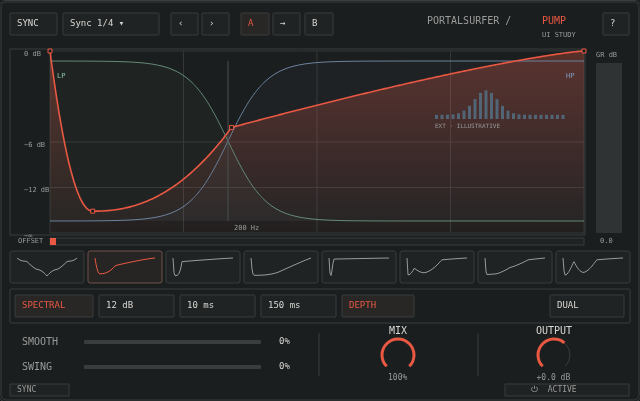
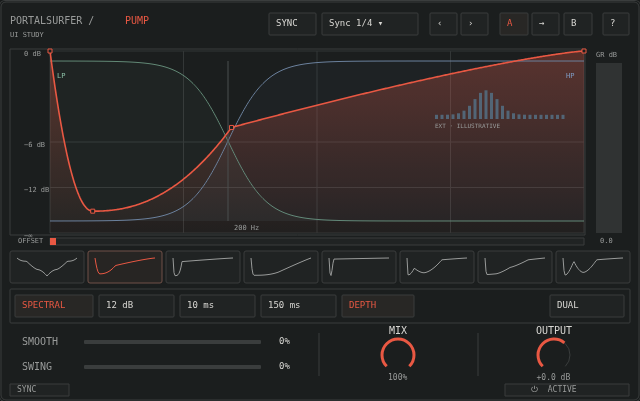
Move header branding left and toolbar controls right

diff --git a/frame-standalone.html b/frame-standalone.html
@@ -108,8 +108,8 @@ button:focus-visible, select:focus-visible { outline: 2px solid #e95843; outline
   }
   function shell(c,mode){
     c.fillStyle=C.bg;c.fillRect(0,0,640,400);rect(c,1,1,638,398,5,C.bg,C.line);
-    button(c,'SYNC',10,12,47);button(c,'Sync 1/4 ▾',63,12,96);button(c,'‹',171,12,27);button(c,'›',202,12,27);button(c,'A',241,12,28,true);button(c,'→',273,12,27);button(c,'B',305,12,28);
-    text(c,'PORTALSURFER /',427,20,10,C.muted);text(c,'PUMP',542,20,10,C.accent);text(c,'UI STUDY',542,34,7,C.muted);button(c,'?',603,12,26);
+    text(c,'PORTALSURFER /',10,20,10,C.muted);text(c,'PUMP',125,20,10,C.accent);text(c,'UI STUDY',10,34,7,C.muted);
+    button(c,'SYNC',269,12,47);button(c,'Sync 1/4 ▾',322,12,96);button(c,'‹',430,12,27);button(c,'›',461,12,27);button(c,'A',500,12,28,true);button(c,'→',532,12,27);button(c,'B',564,12,28);button(c,'?',603,12,26);
     const x=50,y=50,w=534,h=182;rect(c,10,48,575,186,0,C.bg,C.line);
     c.strokeStyle='#333737';c.lineWidth=1;for(let i=0;i<=4;i++){c.beginPath();c.moveTo(x+w*i/4,y);c.lineTo(x+w*i/4,y+h);c.stroke();}for(const level of [0,.5,.75,1]){c.beginPath();c.moveTo(x,y+h*level);c.lineTo(x+w,y+h*level);c.stroke();}
     const gradient=c.createLinearGradient(0,y,0,y+h);gradient.addColorStop(0,'rgba(233,88,67,.30)');gradient.addColorStop(1,'rgba(233,88,67,.03)');c.beginPath();c.moveTo(x,y+h);for(let i=0;i<=w;i++)c.lineTo(x+i,y+(1-sample(shapes[1],i/w))*h);c.lineTo(x+w,y+h);c.closePath();c.fillStyle=gradient;c.fill();

diff --git a/examples/pump.js b/examples/pump.js
@@ -21,8 +21,8 @@
   }
   function shell(c,mode){
     c.fillStyle=C.bg;c.fillRect(0,0,640,400);rect(c,1,1,638,398,5,C.bg,C.line);
-    button(c,'SYNC',10,12,47);button(c,'Sync 1/4 ▾',63,12,96);button(c,'‹',171,12,27);button(c,'›',202,12,27);button(c,'A',241,12,28,true);button(c,'→',273,12,27);button(c,'B',305,12,28);
-    text(c,'PORTALSURFER /',427,20,10,C.muted);text(c,'PUMP',542,20,10,C.accent);text(c,'UI STUDY',542,34,7,C.muted);button(c,'?',603,12,26);
+    text(c,'PORTALSURFER /',10,20,10,C.muted);text(c,'PUMP',125,20,10,C.accent);text(c,'UI STUDY',10,34,7,C.muted);
+    button(c,'SYNC',269,12,47);button(c,'Sync 1/4 ▾',322,12,96);button(c,'‹',430,12,27);button(c,'›',461,12,27);button(c,'A',500,12,28,true);button(c,'→',532,12,27);button(c,'B',564,12,28);button(c,'?',603,12,26);
     const x=50,y=50,w=534,h=182;rect(c,10,48,575,186,0,C.bg,C.line);
     c.strokeStyle='#333737';c.lineWidth=1;for(let i=0;i<=4;i++){c.beginPath();c.moveTo(x+w*i/4,y);c.lineTo(x+w*i/4,y+h);c.stroke();}for(const level of [0,.5,.75,1]){c.beginPath();c.moveTo(x,y+h*level);c.lineTo(x+w,y+h*level);c.stroke();}
     const gradient=c.createLinearGradient(0,y,0,y+h);gradient.addColorStop(0,'rgba(233,88,67,.30)');gradient.addColorStop(1,'rgba(233,88,67,.03)');c.beginPath();c.moveTo(x,y+h);for(let i=0;i<=w;i++)c.lineTo(x+i,y+(1-sample(shapes[1],i/w))*h);c.lineTo(x+w,y+h);c.closePath();c.fillStyle=gradient;c.fill();
